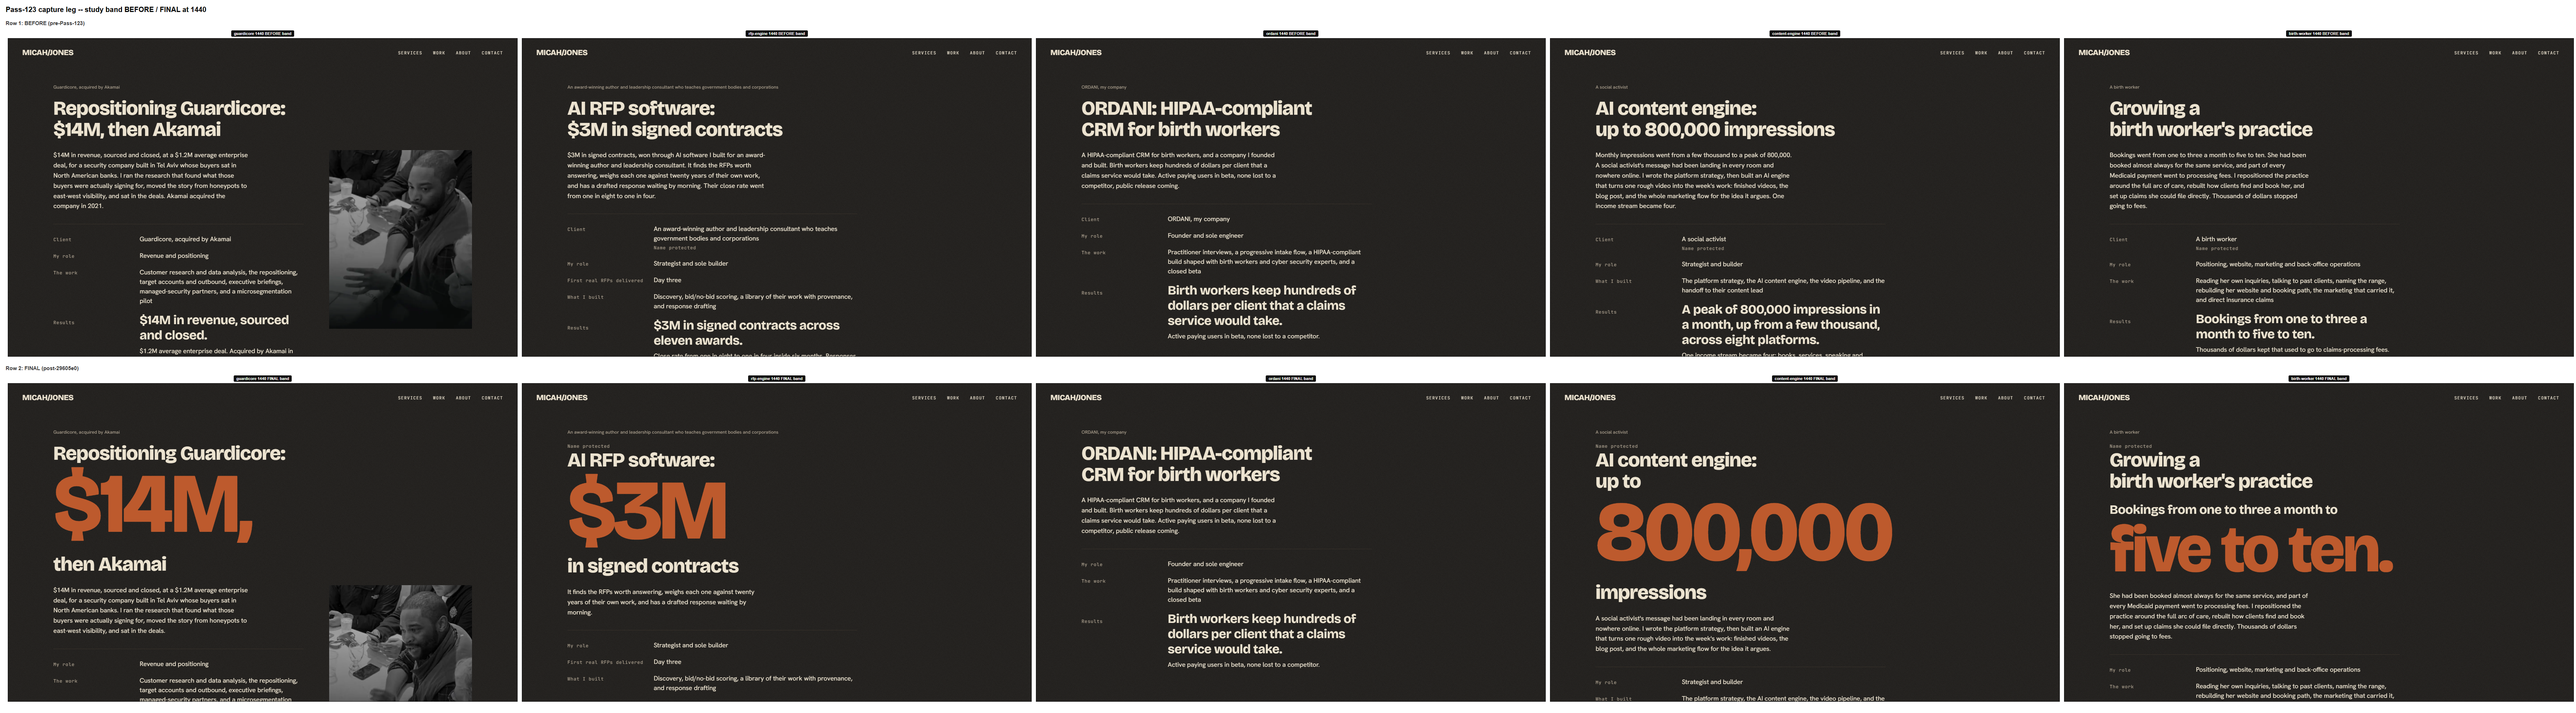
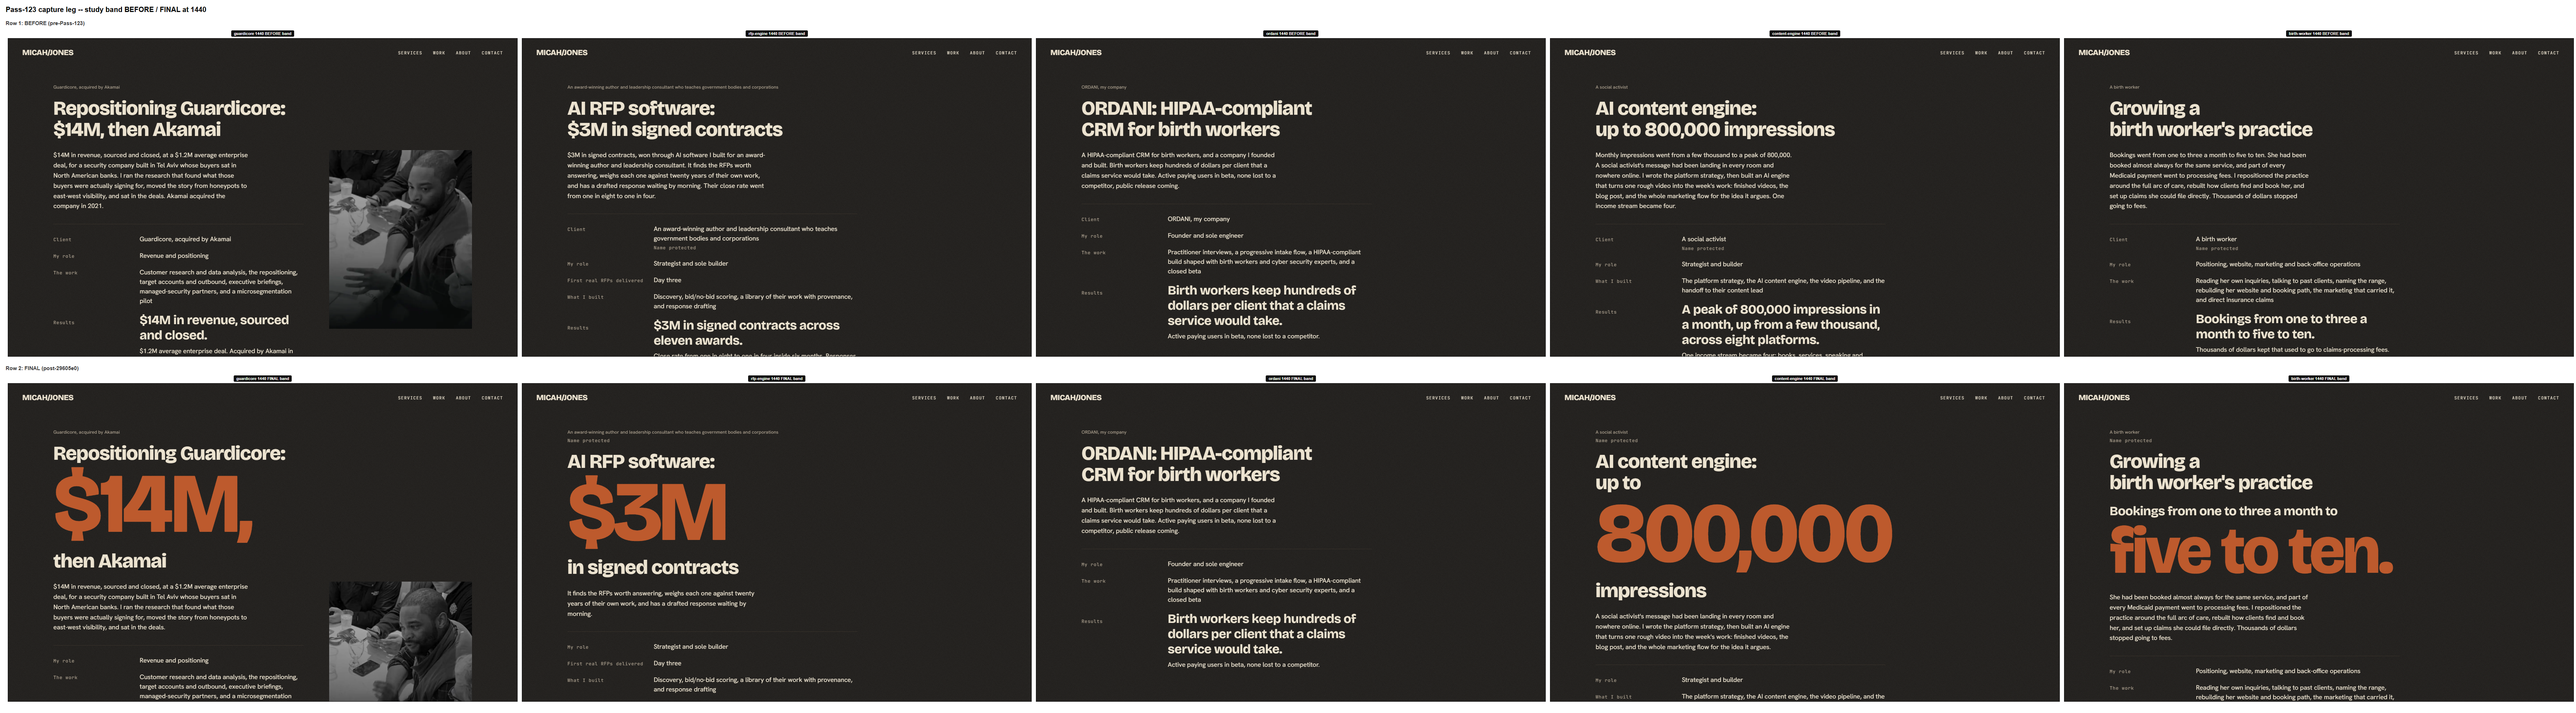
Ledger: Pass-123 push approved and the RFP Results row settled (operator 2026-09-20, "Yes, push it" + "Leave it quiet")
The fresh before/final sheets (11:01, post-fix build) go in with the row, so
the approval and the thing approved sit in the same commit.

diff --git a/docs/LESSONS_LEARNED.md b/docs/LESSONS_LEARNED.md
@@ -817,6 +817,18 @@ stages. The wrong versions keep trying to come back via stale docs and reviewer 
   ratios for the LIVE hexes: copper 3.93 on foyer paper (still FAILS AA for body text, the B1 rule stands),
   3.53 on bone, 4.22 on the theater band, 3.57 on espresso; copper-deep 6.62 on paper, 5.94 on bone (PASS).
   NEVER re-encode #C8542B or #8E3A1E in a check, a brief or a design note.
+- **PASS-123 SHIP APPROVED AND THE RFP RESULTS ROW SETTLED - operator 2026-09-20 (popup, after the
+  fresh before/final sheets `.planning/qa/pass-123/sheets/study-final-{390,1440}.png`, captured 11:01
+  against the post-fix build)**. PUSH: picked "Yes, push it (Recommended)" - `design/live-evolve` goes
+  to `main`, Vercel deploys on push, CARD 1 and both aliases follow. RFP RESULTS ROW: told that his
+  2026-09-19 "drop the repeat" ruling had been ledgered as done but never built, and that building it
+  leaves the RFP study as the only one of the five whose Results row has no display-size lead
+  (guardicore, content engine and ORDANI each keep one), he picked "Leave it quiet (Recommended)": the
+  row stays as the smaller "Close rate from one in eight to one in four inside six months. Responses
+  out per month: two or three, then eight to ten.", because the $3M already reads at poster size
+  directly above it. The offered alternative - promoting the close-rate sentence to display size - is
+  REJECTED and is not to be re-proposed without a new dated ruling. No copy was written or reworded by
+  either decision.
 - **PASS-123 JUDGE-GATE ANSWERS — operator 2026-09-19 (popup, after the Fable judge read of the built
   bands)**. RFP RESULTS ROW: picked "Drop the repeat, keep the rest (Recommended)": after the contract
   count was retired this morning, `results.lead` became "$3M in signed contracts.", word for word the

diff --git a/.claude/RESUME.md b/.claude/RESUME.md
@@ -29,11 +29,11 @@ identical-check failures. CLS 0.00000 all five, both widths. Crossfade
 AND up. Sheets: qa/pass-123/sheets/study-final-{390,1440}.png (pre-fix kept as
 study-final-prefix-*).
 
-## IN FLIGHT — with Micah
-His look at the fresh sheets, plus two questions: (1) push approval; (2) the
-RFP Results row now has NO display-size lead (guardicore/content-engine/ordani
-each keep one) — leave it quiet, or promote the first sentence of the rest.
-Then CARD 1 (both aliases).
+## PUSH APPROVED — operator 2026-09-20, popup, verbatim
+"Yes, push it (Recommended)" (push `design/live-evolve` to `main`; Vercel
+deploys on push) and "Leave it quiet (Recommended)" (the RFP Results row keeps
+only the smaller rest; promoting the close-rate sentence is REJECTED).
+Ledgered as LESSONS #3 "PASS-123 SHIP APPROVED...". Then CARD 1, both aliases.
 
 ## Queue after that
 1. Home hero shift 0.0045 of the 1440 CLS (h1.cw-h1 / p.cw-sub), pre-existing.
